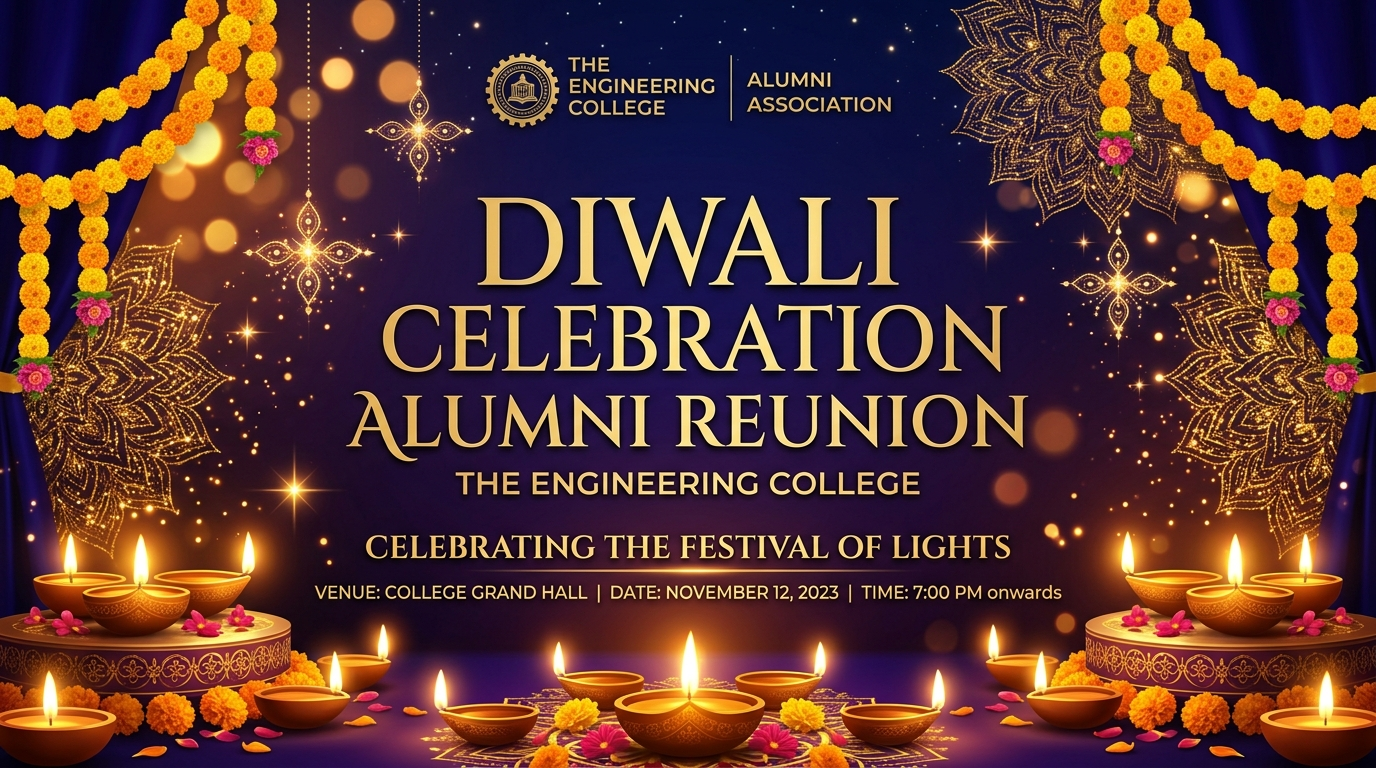
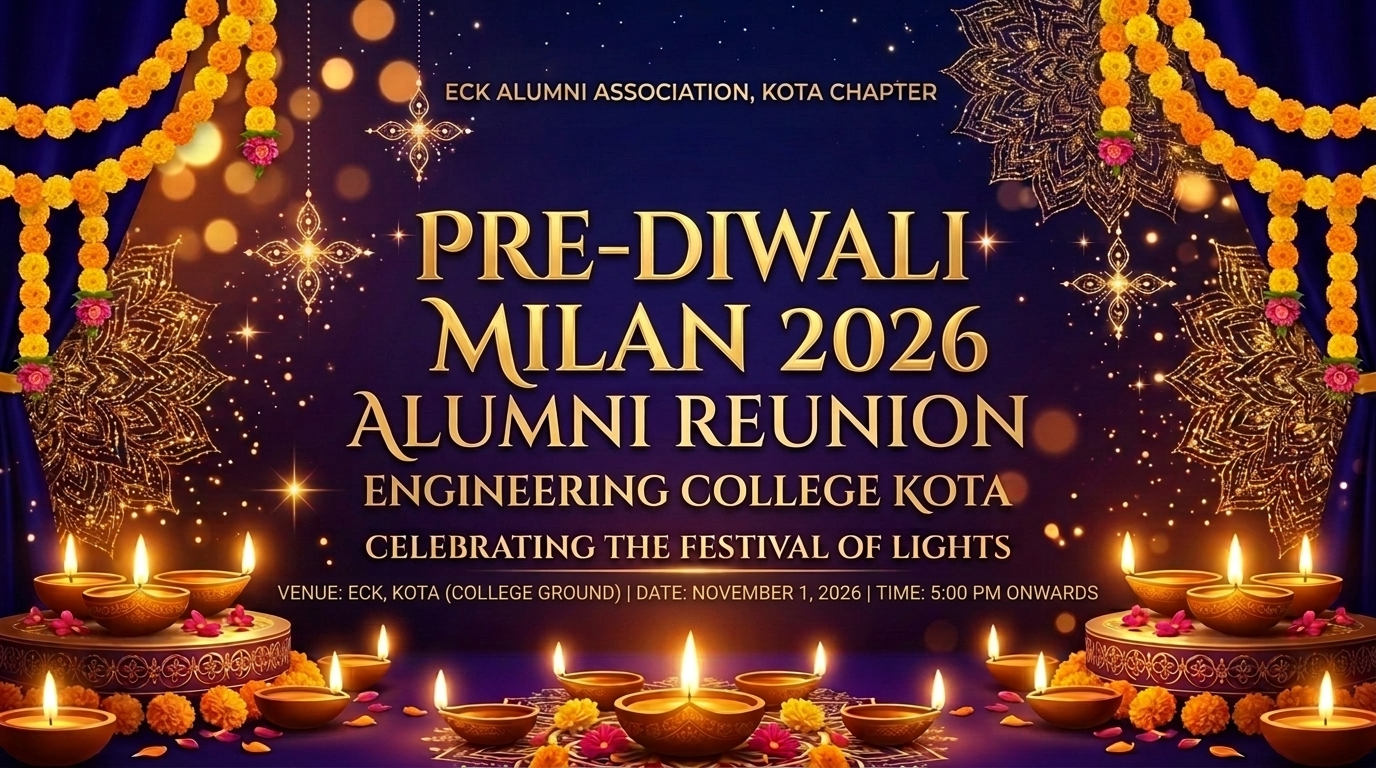
feat: add event registration page, database schema, and payment components for ECK alumni events

diff --git a/src/pages/EventPage.tsx b/src/pages/EventPage.tsx
@@ -19,8 +19,8 @@ const DEFAULT_EVENT: ECKEvent = {
   event_name: 'Engineering College Kota Alumni – Pre-Diwali Milan 2026',
   event_slug: 'pre-diwali-milan-2026',
   event_date: '2026-11-01',
-  event_time: '6:00 PM onwards',
-  location: 'Kota, Rajasthan (Venue to be announced)',
+  event_time: '5:00 PM onwards',
+  location: 'ECK, Kota, Rajasthan (College Ground)',
   description:
     'Reconnect • Relive • Celebrate — Join fellow ECK alumni for an evening of nostalgia, networking, cultural performances, dinner, and celebration before Diwali 2026.',
   registration_fee: 800,
@@ -140,7 +140,7 @@ export const EventPage: React.FC = () => {
   return (
     <div className="app-layout">
       <Header
-        title="ECK Alumni Association"
+        title="ECK Alumni Association, Kota Chapter"
         tagline={event.tagline || 'Engineering College Kota'}
       />
 
@@ -265,7 +265,7 @@ export const EventPage: React.FC = () => {
 
       <footer className="site-footer">
         <div className="footer-content">
-          <p>© {new Date().getFullYear()} Engineering College Kota (ECK) Alumni Association</p>
+          <p>© {new Date().getFullYear()} Engineering College Kota (ECK) Alumni Association, Kota Chapter</p>
           <p className="footer-sub">
             Pre-Diwali Milan 2026 • Kota, Rajasthan
           </p>

diff --git a/index.html b/index.html
@@ -4,12 +4,12 @@
     <meta charset="UTF-8" />
     <link rel="icon" type="image/svg+xml" href="/favicon.svg" />
     <meta name="viewport" content="width=device-width, initial-scale=1.0, maximum-scale=5.0" />
-    <meta name="description" content="Engineering College Kota (ECK) Alumni Association — Pre-Diwali Milan 2026 Reunion. Reconnect • Relive • Celebrate." />
+    <meta name="description" content="Engineering College Kota (ECK) Alumni Association, Kota Chapter — Pre-Diwali Milan 2026 Reunion. Reconnect • Relive • Celebrate." />
     <meta name="theme-color" content="#0b0d19" />
     <link rel="preconnect" href="https://fonts.googleapis.com" />
     <link rel="preconnect" href="https://fonts.gstatic.com" crossorigin />
     <link href="https://fonts.googleapis.com/css2?family=Outfit:wght@300;400;500;600;700;800;900&family=Cinzel:wght@600;700;800&family=Inter:wght@400;500;600;700&display=swap" rel="stylesheet" />
-    <title>Pre-Diwali Milan 2026 | ECK Alumni Association</title>
+    <title>Pre-Diwali Milan 2026 | ECK Alumni Association, Kota Chapter</title>
   </head>
   <body>
     <div id="root"></div>

diff --git a/src/components/PaymentSection.tsx b/src/components/PaymentSection.tsx
@@ -49,7 +49,7 @@ export const PaymentSection: React.FC<PaymentSectionProps> = ({
   const amountToPay = isPaidUpdate ? extraDue : amount;
 
   const upiDeepLink = upiId
-    ? `upi://pay?pa=${encodeURIComponent(upiId)}&pn=${encodeURIComponent('ECK Alumni Association')}&am=${amountToPay}&cu=INR&tn=${encodeURIComponent('ECK Reunion Registration')}`
+    ? `upi://pay?pa=${encodeURIComponent(upiId)}&pn=${encodeURIComponent('ECK Alumni Association, Kota Chapter')}&am=${amountToPay}&cu=INR&tn=${encodeURIComponent('ECK Reunion Registration')}`
     : null;
 
   const recordedReceiptsCount =

diff --git a/src/components/Header.tsx b/src/components/Header.tsx
@@ -7,7 +7,7 @@ interface HeaderProps {
 }
 
 export const Header: React.FC<HeaderProps> = ({
-  title = 'ECK Alumni Association',
+  title = 'ECK Alumni Association, Kota Chapter',
   tagline = 'Engineering College Kota',
 }) => {
   const location = useLocation();
